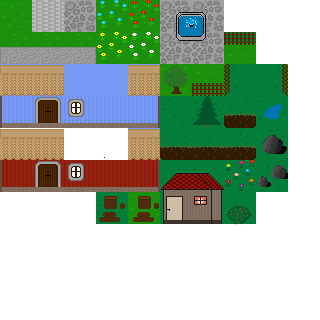
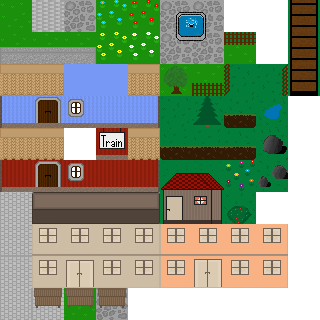
ny värld

diff --git a/Tilerpg/HelloWorldLayer.m b/Tilerpg/HelloWorldLayer.m
@@ -37,6 +37,7 @@
     int BiBought;
     int AxeBought;
     int startLumber;
+    int TrainTicket;
 }
 // Helper class method that creates a Scene with the HelloWorldLayer as the only child.
 +(CCScene *) scene
@@ -95,7 +96,7 @@
 }
 
 -(void)newGame:(id)sender{
-    money=5000;
+    money=200000;
     Int=0;
     Str=50;
     Cha=0;
@@ -394,6 +395,12 @@
             [self stringChanged:@"Well then, get to work!" :@"" :@"" :-1];
         }
     }
+    if (PratID==20) {
+        TrainTicket=1;
+        money-=100000;
+        [self stringChanged:@"Go into the house when you feel like leaving." :@"" :@"" :-1];
+        
+    }
              
 }
 -(void)Option2:(id)sender{
@@ -608,6 +615,34 @@
                 [self loadWorld:@"World2.tmx":@"SpawnPointJob"];
                 return;
             }
+            NSString *World3 = [properties valueForKey:@"World3"];
+            if (World3 && [World3 compare:@"True"] == NSOrderedSame) {
+                if (TrainTicket==1) {
+                    [self unloadWorld];
+                    [self loadWorld:@"World3.tmx" :@"SpawnPointW3"];
+                    return;
+                            }
+            }
+            NSString *TalkTrain = [properties valueForKey:@"TalkTrain"];
+            if (TalkTrain && [TalkTrain compare:@"True"] == NSOrderedSame) {
+                if (TrainTicket==1) {
+                    [self showBubbla:ccp(x-winSize.width/4+(30*winSize.width/1024),y+winSize.height/4+(60*winSize.height/768))];
+                    [self stringChanged:@"You have already bought a ticket. Go into the station.":@"":@"":21];
+
+                } else {
+                    
+                [self showBubbla:ccp(x-winSize.width/4+(30*winSize.width/1024),y+winSize.height/4+(60*winSize.height/768))];
+                [self stringChanged:@"Do you want to buy a ticket for the train? It will cost you 100000.":@"Yes":@"No":20];
+                
+            }
+            }
+            NSString *W2 =[properties valueForKey:@"W2"];
+            if (W2 && [W2 compare:@"True"] == NSOrderedSame) {
+                [self unloadWorld];
+                [self loadWorld:@"World2.tmx" :@"SpawnPointW2"];
+                return;
+            }
+            
             NSString *Shop = [properties valueForKey:@"Shop"];
             if (Shop && [Shop compare:@"True"] == NSOrderedSame) {
                 [self unloadWorld];
@@ -620,7 +655,18 @@
                 [self loadWorld:@"World2.tmx":@"SpawnPointShop"];
                 return;//gygtfv
             }
-            
+            NSString *home2 = [properties valueForKey:@"home2"];
+            if (home2 && [home2 compare:@"True"] == NSOrderedSame) {
+                [self unloadWorld];
+                [self loadWorld:@"Home2.tmx" :@"SpawnPoint"];
+                return;
+            }
+            NSString *OutHome2 = [properties valueForKey:@"OutHome2"];
+            if (OutHome2 && [OutHome2 compare:@"True"] == NSOrderedSame) {
+                [self unloadWorld];
+                [self loadWorld:@"World3.tmx" :@"SpawnPointOutHome2"];
+                return;
+            }
             NSString *jump = [properties valueForKey:@"jump"];
             if (jump && [jump compare:@"True"] == NSOrderedSame) {
                 if(jumpAble==0)
